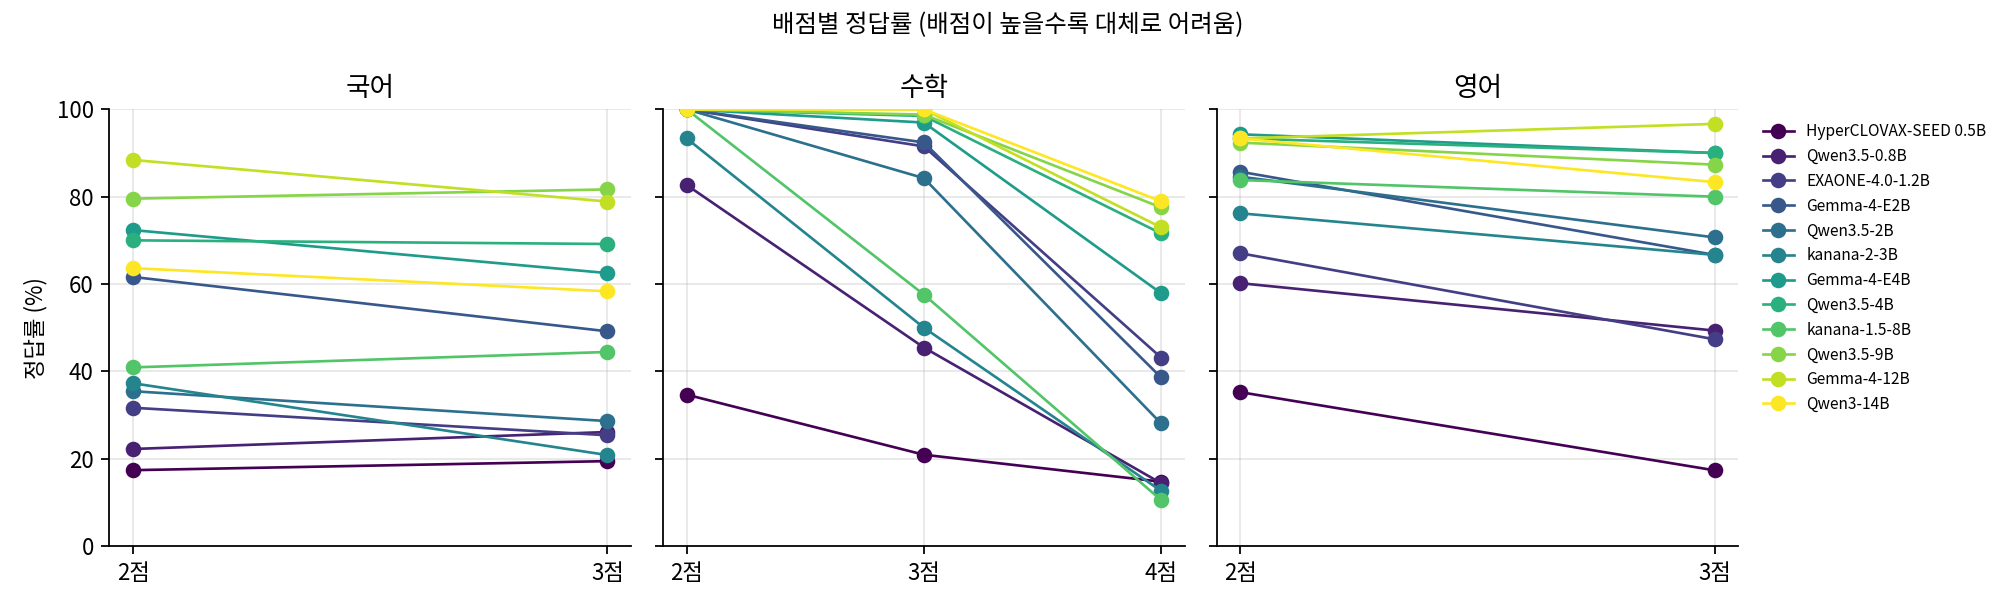
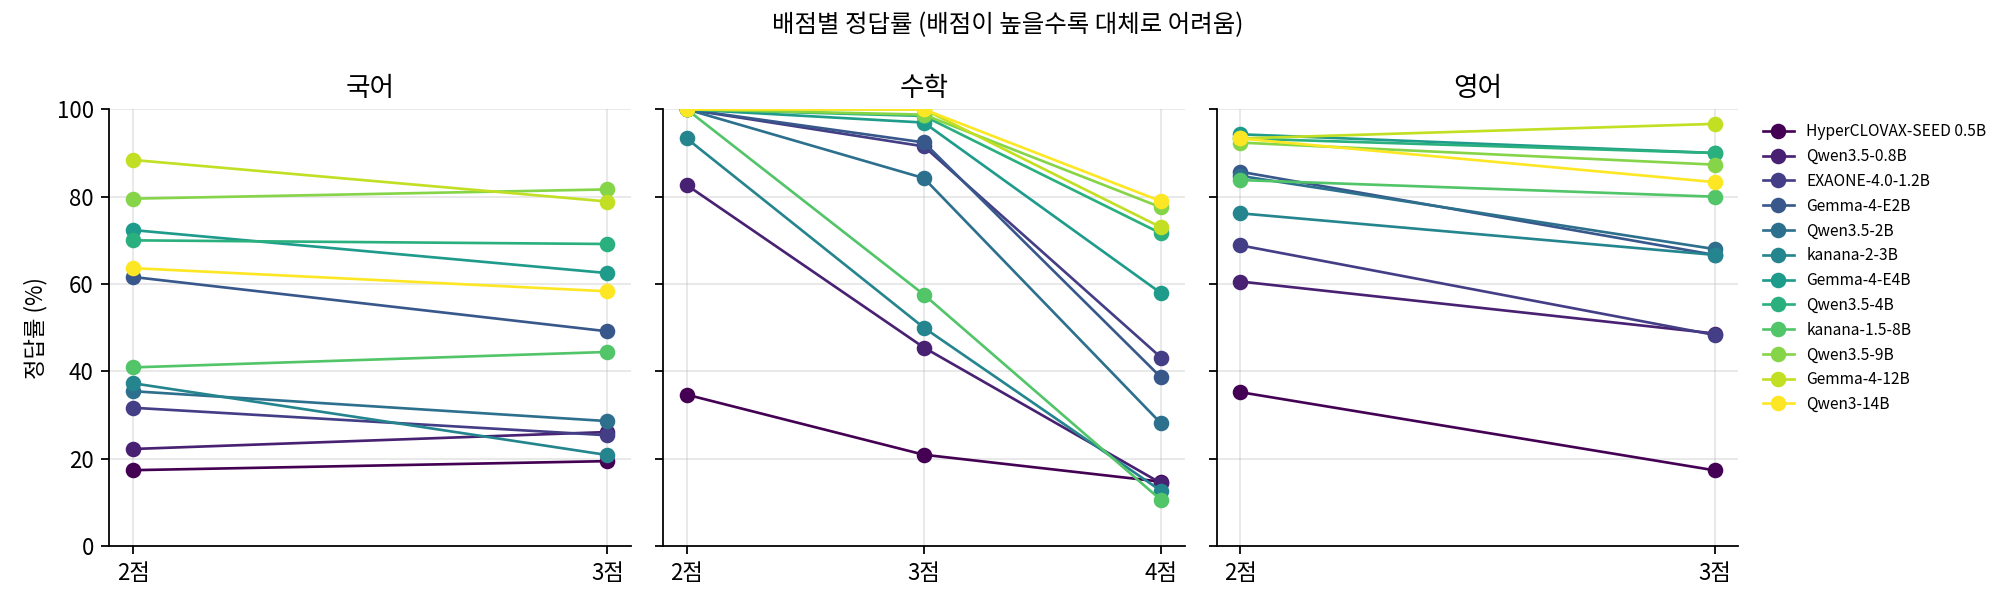
Update results (36 runs)

diff --git a/README.md b/README.md
@@ -10,9 +10,9 @@
 - **수학**은 작은 모델도 잘 푼다. 4B 크기의 Gemma-4-E4B가 80점을 넘었다.
 - 시험지 맨 끝의 4점 단답형 고난도 문항(공통 21·22번, 선택 29·30번)은 모델 평균 정답률이 25%, 가장 잘 푼 모델도 67%에 그쳤다.
 - **국어가 수학보다 어렵다.** 2B 이상 모델 기준으로 국어 정답률이 수학보다 평균 13%p 낮다. 2,000–4,000자 길이의 지문을 읽고 선택지 사이의 미묘한 차이를 가려내는 일이 작은 모델에게는 계산보다 어렵다.
-- **국산 모델**: HyperCLOVAX-SEED 0.5B(국어 18점, 수학 19점, 영어 30점), EXAONE-4.0-1.2B(국어 31점, 수학 75점, 영어 61점), kanana-2-3B(국어 34점, 수학 39점, 영어 73점), kanana-1.5-8B(국어 45점, 수학 42점, 영어 83점).
+- **국산 모델**: HyperCLOVAX-SEED 0.5B(국어 18점, 수학 19점, 영어 30점), EXAONE-4.0-1.2B(국어 31점, 수학 75점, 영어 63점), kanana-2-3B(국어 34점, 수학 39점, 영어 73점), kanana-1.5-8B(국어 45점, 수학 42점, 영어 83점).
 
-> 마지막 업데이트: 2026-11-19 17:33 KST. 평가가 진행되는 동안 모델 하나가 끝날 때마다 이 페이지가 자동으로 갱신된다.
+> 마지막 업데이트: 2026-11-19 17:35 KST. 평가가 진행되는 동안 모델 하나가 끝날 때마다 이 페이지가 자동으로 갱신된다.
 
 ## 왜 소형 모델인가
 
@@ -84,10 +84,10 @@
 | 모델 | 개발사 | 매개변수(B) | 실행 가능 기기 | 국어(화작) | 국어(언매) | 수학(확통) | 수학(미적) | 수학(기하) | 영어 |
 |---|---|---|---|---|---|---|---|---|---|
 | HyperCLOVAX-SEED 0.5B | 네이버 | 0.57 | 보급형 스마트폰 | 18.0 <sub>(13–25)</sub> | 18.0 <sub>(16–19)</sub> | 17.5 <sub>(14–21)</sub> | 21.3 <sub>(17–24)</sub> | 18.0 <sub>(15–21)</sub> | 29.9 <sub>(28–34)</sub> |
-| Qwen3.5-0.8B | 알리바바 | 0.8 | 보급형 스마트폰 | 24.4 <sub>(18–32)</sub> | 22.9 <sub>(20–28)</sub> | 36.5 <sub>(35–39)</sub> | 36.3 <sub>(33–39)</sub> | 33.5 <sub>(31–36)</sub> | 56.9 <sub>(51–63)</sub> |
-| EXAONE-4.0-1.2B | LG AI연구원 | 1.28 | 보급형 스마트폰 | 31.2 <sub>(28–35)</sub> | 31.5 <sub>(27–35)</sub> | 77.6 <sub>(70–82)</sub> | 72.9 <sub>(63–82)</sub> | 73.5 <sub>(71–78)</sub> | 61.1 <sub>(61–62)</sub> |
+| Qwen3.5-0.8B | 알리바바 | 0.8 | 보급형 스마트폰 | 24.4 <sub>(18–32)</sub> | 22.9 <sub>(20–28)</sub> | 36.5 <sub>(35–39)</sub> | 36.3 <sub>(33–39)</sub> | 33.5 <sub>(31–36)</sub> | 57.0 <sub>(53–62)</sub> |
+| EXAONE-4.0-1.2B | LG AI연구원 | 1.28 | 보급형 스마트폰 | 31.2 <sub>(28–35)</sub> | 31.5 <sub>(27–35)</sub> | 77.6 <sub>(70–82)</sub> | 72.9 <sub>(63–82)</sub> | 73.5 <sub>(71–78)</sub> | 62.7 <sub>(61–64)</sub> |
 | Gemma-4-E2B | 구글 | 2.0 | 중급 스마트폰 | 67.9 <sub>(64–71)</sub> | 61.2 <sub>(59–63)</sub> | 75.0 <sub>(72–80)</sub> | 73.0 <sub>(69–77)</sub> | 76.3 <sub>(76–77)</sub> | 80.0 <sub>(78–83)</sub> |
-| Qwen3.5-2B | 알리바바 | 2.0 | 보급형 스마트폰 | 33.6 <sub>(31–36)</sub> | 37.7 <sub>(34–42)</sub> | 64.7 <sub>(63–66)</sub> | 59.9 <sub>(56–65)</sub> | 62.1 <sub>(61–63)</sub> | 80.4 <sub>(78–82)</sub> |
+| Qwen3.5-2B | 알리바바 | 2.0 | 보급형 스마트폰 | 33.6 <sub>(31–36)</sub> | 37.7 <sub>(34–42)</sub> | 64.7 <sub>(63–66)</sub> | 59.9 <sub>(56–65)</sub> | 62.1 <sub>(61–63)</sub> | 79.7 <sub>(78–81)</sub> |
 | kanana-2-3B | 카카오 | 3.0 | 중급 스마트폰 | 32.5 <sub>(30–34)</sub> | 36.0 <sub>(29–40)</sub> | 42.6 <sub>(29–54)</sub> | 38.9 <sub>(28–51)</sub> | 36.3 <sub>(25–49)</sub> | 73.3 <sub>(68–80)</sub> |
 | Gemma-4-E4B | 구글 | 4.0 | 중급 스마트폰 | 77.2 <sub>(69–83)</sub> | 73.3 <sub>(67–77)</sub> | 82.7 <sub>(80–84)</sub> | 79.3 <sub>(77–81)</sub> | 88.0 <sub>(84–92)</sub> | 93.0 <sub>(88–98)</sub> |
 | Qwen3.5-4B | 알리바바 | 4.0 | 중급 스마트폰 | 75.0 <sub>(71–81)</sub> | 70.7 <sub>(68–72)</sub> | 88.8 <sub>(86–92)</sub> | 85.9 <sub>(82–88)</sub> | 90.5 <sub>(82–96)</sub> | 92.3 <sub>(88–95)</sub> |
@@ -135,7 +135,7 @@
 |---|---|---|---|
 | HyperCLOVAX-SEED 0.5B | 0.18 / 0.09 / 0.50 / 0.10 / 946 | 0.20 / 0.10 / 0.59 / 0.09 / 1165 | 0.31 / 0.23 / 0.41 / 0.10 / 1116 |
 | Qwen3.5-0.8B | 0.23 / 0.14 / 0.46 / 0.46 / 12622 | 0.37 / 0.28 / 0.59 / 0.54 / 13733 | 0.58 / 0.54 / 0.18 / 0.18 / 9809 |
-| EXAONE-4.0-1.2B | 0.30 / 0.29 / 0.04 / 0.01 / 1520 | 0.72 / 0.70 / 0.18 / 0.14 / 6924 | 0.63 / 0.61 / 0.06 / 0.00 / 1123 |
+| EXAONE-4.0-1.2B | 0.30 / 0.29 / 0.04 / 0.01 / 1520 | 0.72 / 0.70 / 0.18 / 0.14 / 6924 | 0.64 / 0.61 / 0.06 / 0.00 / 1123 |
 | Gemma-4-E2B | 0.59 / 0.58 / 0.00 / 0.00 / 1897 | 0.71 / 0.71 / 0.00 / 0.00 / 3471 | 0.81 / 0.81 / 0.00 / 0.00 / 1278 |
 | Qwen3.5-2B | 0.34 / 0.29 / 0.23 / 0.25 / 12221 | 0.63 / 0.59 / 0.37 / 0.37 / 10424 | 0.81 / 0.81 / 0.04 / 0.05 / 7274 |
 | kanana-2-3B | 0.34 / 0.33 / 0.00 / 0.00 / 176 | 0.39 / 0.39 / 0.01 / 0.00 / 596 | 0.74 / 0.74 / 0.00 / 0.00 / 135 |
